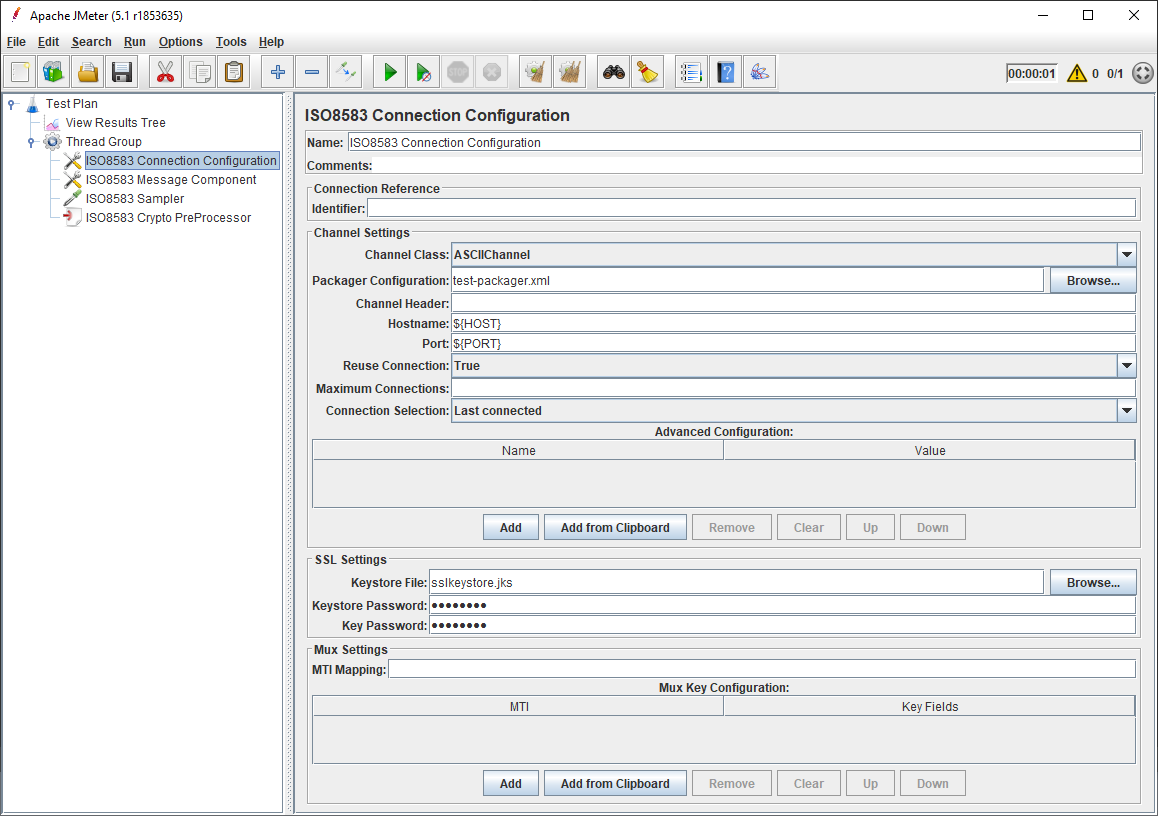
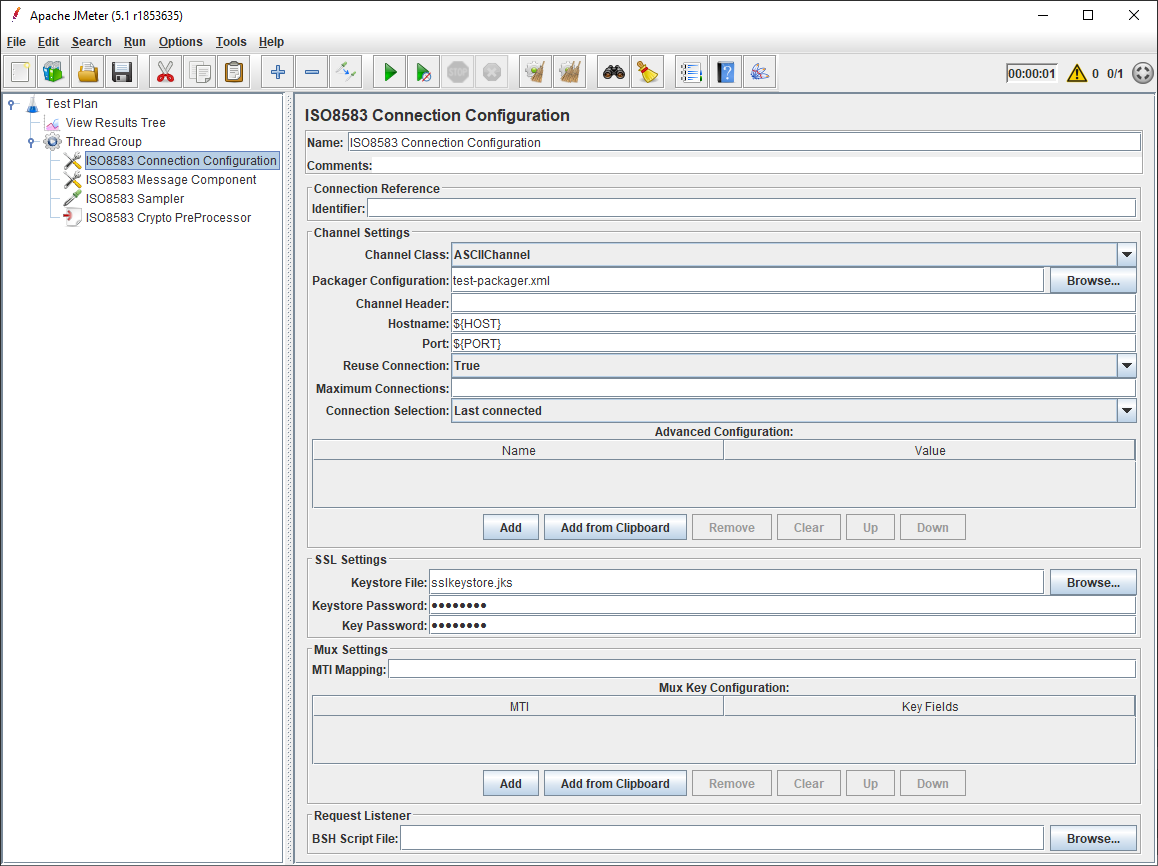
Add Request Listener (#39)

Changed region(s): [[0.0, 0.0, 1.0, 0.8578], [0.0, 0.8578, 1.0, 1.0]]

diff --git a/src/main/java/nz/co/breakpoint/jmeter/iso8583/ISO8583Config.java b/src/main/java/nz/co/breakpoint/jmeter/iso8583/ISO8583Config.java
@@ -16,6 +16,7 @@ import org.apache.jmeter.testelement.property.StringProperty;
 import org.apache.jmeter.util.JMeterUtils;
 import org.jdom2.Element;
 import org.jdom2.output.XMLOutputter;
+import org.jpos.bsh.BSHRequestListener;
 import org.jpos.iso.*;
 import org.jpos.iso.channel.*;
 import org.jpos.iso.packager.GenericPackager;
@@ -62,6 +63,7 @@ public class ISO8583Config extends ConfigTestElement
         MAXCONNECTIONS = "maxConnections",
         CONNECTIONSELECTION = "connectionSelection",
         CHANNELCONFIG = "channelConfig",
+        REQUESTLISTENER = "requestListener",
         KEYSTORE = "keystore",
         STOREPASSWORD = "storePassword",
         KEYPASSWORD = "keyPassword",
@@ -200,6 +202,19 @@ public class ISO8583Config extends ConfigTestElement
         return descriptor;
     }
 
+    protected Element addRequestListener(Element descriptor) {
+        final String requestListener = getRequestListener();
+        if (requestListener != null && !requestListener.isEmpty()) {
+            descriptor.addContent(new Element("request-listener")
+                .setAttribute("class", BSHRequestListener.class.getName())
+                .setAttribute("logger", Q2_LOGGER)
+                .addContent(new Element("property")
+                    .setAttribute("name", "source")
+                    .setAttribute("value", requestListener)));
+        }
+        return descriptor;
+    }
+
     protected Element getChannelAdaptorDescriptor(String key) {
         // https://github.com/jpos/jPOS/blob/v2_1_4/doc/src/asciidoc/ch08/channel_adaptor.adoc
         Element descriptor = new Element("channel-adaptor")
@@ -283,6 +298,7 @@ public class ISO8583Config extends ConfigTestElement
                 .addContent(connectionSelection.replaceFirst(CONNECTIONSELECTION+".", "")));
         }
         addSSLConfig(descriptor);
+        addRequestListener(descriptor);
 
         return deployAndStart(descriptor);
     }
@@ -314,6 +330,8 @@ public class ISO8583Config extends ConfigTestElement
             }
             descriptor.addContent(muxKey);
         });
+        addRequestListener(descriptor);
+
         return deployAndStart(descriptor);
     }
 
@@ -498,6 +516,9 @@ public class ISO8583Config extends ConfigTestElement
 
     public boolean isReuseConnection() { return getPropertyAsBoolean(REUSECONNECTION); }
     public void setReuseConnection(boolean reuseConnection) { setProperty(new BooleanProperty(REUSECONNECTION, reuseConnection)); }
+
+    public String getRequestListener() { return getPropertyAsString(REQUESTLISTENER); }
+    public void setRequestListener(String requestListener) { setProperty(new StringProperty(REQUESTLISTENER, requestListener)); }
 
     public String getMtiMapping() { return getPropertyAsString(MTIMAPPING); }
     public void setMtiMapping(String mtiMapping) { setProperty(new StringProperty(MTIMAPPING, mtiMapping)); }

diff --git a/src/main/java/nz/co/breakpoint/jmeter/iso8583/ISO8583ConfigBeanInfo.java b/src/main/java/nz/co/breakpoint/jmeter/iso8583/ISO8583ConfigBeanInfo.java
@@ -106,5 +106,14 @@ public class ISO8583ConfigBeanInfo extends ISO8583TestElementBeanInfo {
                 new String[]{"MTI", "Key Fields"}));
         p.setValue(TableEditor.OBJECT_PROPERTIES,
                 new String[]{"name", MuxKeyConfigItem.VALUE}); // name is a standard TestElement member
+
+        createPropertyGroup("RequestListener", new String[]{
+            REQUESTLISTENER,
+        });
+
+        p = property(REQUESTLISTENER);
+        p.setValue(NOT_UNDEFINED, Boolean.TRUE);
+        p.setPropertyEditorClass(FileEditor.class);
+        p.setValue(DEFAULT, "");
     }
 }

diff --git a/README.md b/README.md
@@ -101,6 +101,23 @@ For SSL/TLS connections, the *Keystore File*
      "Last connected" (default) sends to the most recently connected socket.
      "Round robin" cycles through the connections one after the other.
      "All connected" sends to all of them.
+- *Request Listener* (since v1.2):
+    A *BSH Script File* (BeanShell) can be specified that will be interpreted at run time for every **incoming** request.
+    It can be used to respond to network management (0800) messages from the system under test, such as sign-on, key exchange etc.
+
+    Example (refer jPOS documentation of the similar [BSH Filter](https://github.com/jpos/jPOS/blob/v2_1_4/doc/src/asciidoc/ch05/channel_filters.adoc#bshfilter) for more details):
+
+    ```groovy
+    if ("0800".equals(message.getMTI())) {
+        message.setResponseMTI();
+        message.set(39, "00");
+        if ("101".equals(message.getString(70))) { // key change message
+            // store message details in JMeter property:
+            org.apache.jmeter.util.JMeterUtils.getJMeterProperties().put("KEY", message.getString(48));
+        }
+        source.send(message);
+    }
+    ```
 
 ##### Implementation Details
 
